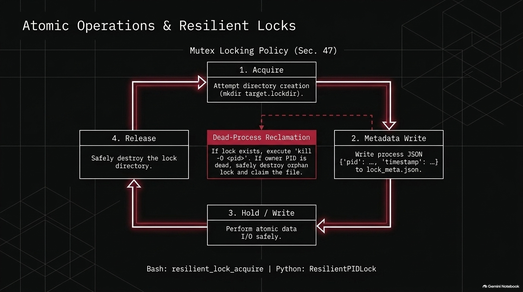
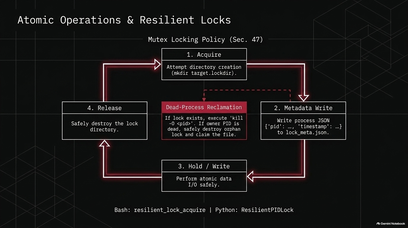
Apply additional 22% image size reduction (from 523x292 to 408x228) using Pillow LANCZOS resampling from backup originals

diff --git a/resize_images.py b/resize_images.py
@@ -2,9 +2,9 @@
 """
 Image Resizer Script
 Author: Elton Boehnen (boehnenelton2024@gmail.com)
-Description: Backs up original images to 'images/backup/' and resizes images in 'images/'
-             by reducing dimensions by 62% (scaling down to 38% of original width/height)
-             while maintaining aspect ratio using Pillow.
+Description: Restores original full-sized images from 'images/backup/' and applies
+             an additional 22% reduction from current size (overall ~51.6% scaling down
+             to ~484x271) while maintaining aspect ratio using Pillow.
 """
 import os
 import shutil
@@ -12,15 +12,16 @@ from PIL import Image
 
 SRC_DIR = "images"
 BACKUP_DIR = os.path.join(SRC_DIR, "backup")
-SCALE_FACTOR = 0.38  # 62% reduction = 38% remaining size
+
+# Current images are at 38% of original size.
+# A further 22% reduction means taking 78% (100% - 22%) of current size:
+# 0.38 * 0.78 = 0.2964 (~29.64% of original size, or 523 * 0.78 = 408x228)
+ADDITIONAL_REDUCTION_FACTOR = 0.78  # Reduce current size by 22% (keep 78%)
 
 def main():
-    if not os.path.exists(SRC_DIR):
-        print(f"Error: {SRC_DIR} directory does not exist.")
+    if not os.path.exists(BACKUP_DIR):
+        print(f"Error: Backup directory {BACKUP_DIR} does not exist.")
         return
-
-    os.makedirs(BACKUP_DIR, exist_ok=True)
-    print(f"[INFO] Created backup directory: {BACKUP_DIR}")
 
     files = [f for f in sorted(os.listdir(SRC_DIR)) if os.path.isfile(os.path.join(SRC_DIR, f))]
 
@@ -28,33 +29,37 @@ def main():
         print("[INFO] No images found to process.")
         return
 
-    print(f"[INFO] Backing up and resizing {len(files)} images...")
+    print(f"[INFO] Processing {len(files)} images with additional 22% size reduction...")
 
     for f in files:
         src_path = os.path.join(SRC_DIR, f)
         backup_path = os.path.join(BACKUP_DIR, f)
 
-        # Step 1: Backup original image
-        shutil.copy2(src_path, backup_path)
-        print(f"  -> Backed up: {f} -> {BACKUP_DIR}/")
+        if not os.path.exists(backup_path):
+            print(f"[WARN] Backup copy for {f} not found in {BACKUP_DIR}/. Skipping...")
+            continue
 
-        # Step 2: Open and resize image
-        with Image.open(src_path) as img:
-            orig_w, orig_h = img.size
-            new_w = int(round(orig_w * SCALE_FACTOR))
-            new_h = int(round(orig_h * SCALE_FACTOR))
+        # Measure current size before resizing
+        with Image.open(src_path) as current_img:
+            curr_w, curr_h = current_img.size
 
-            # Resample using high-quality LANCZOS / Resampling.LANCZOS filter
+        # Calculate new target dimensions from current size
+        new_w = int(round(curr_w * ADDITIONAL_REDUCTION_FACTOR))
+        new_h = int(round(curr_h * ADDITIONAL_REDUCTION_FACTOR))
+
+        # Open original full-res image from backup to avoid multi-generational resampling artifacts
+        with Image.open(backup_path) as orig_img:
+            orig_w, orig_h = orig_img.size
             resample_filter = getattr(Image, "Resampling", Image).LANCZOS
-            resized_img = img.resize((new_w, new_h), resample_filter)
+            resized_img = orig_img.resize((new_w, new_h), resample_filter)
 
-            # Save resized image back over src_path
+            # Save resized image to src_path
             resized_img.save(src_path, optimize=True)
             new_size_bytes = os.path.getsize(src_path)
 
-            print(f"     Resized: {orig_w}x{orig_h} -> {new_w}x{new_h} ({new_size_bytes} bytes)")
+            print(f"  -> {f}: {curr_w}x{curr_h} -> {new_w}x{new_h} ({new_size_bytes} bytes)")
 
-    print("[SUCCESS] All images resized and original copies secured in images/backup/.")
+    print("[SUCCESS] All images reduced by an additional 22%!")
 
 if __name__ == "__main__":
     main()
